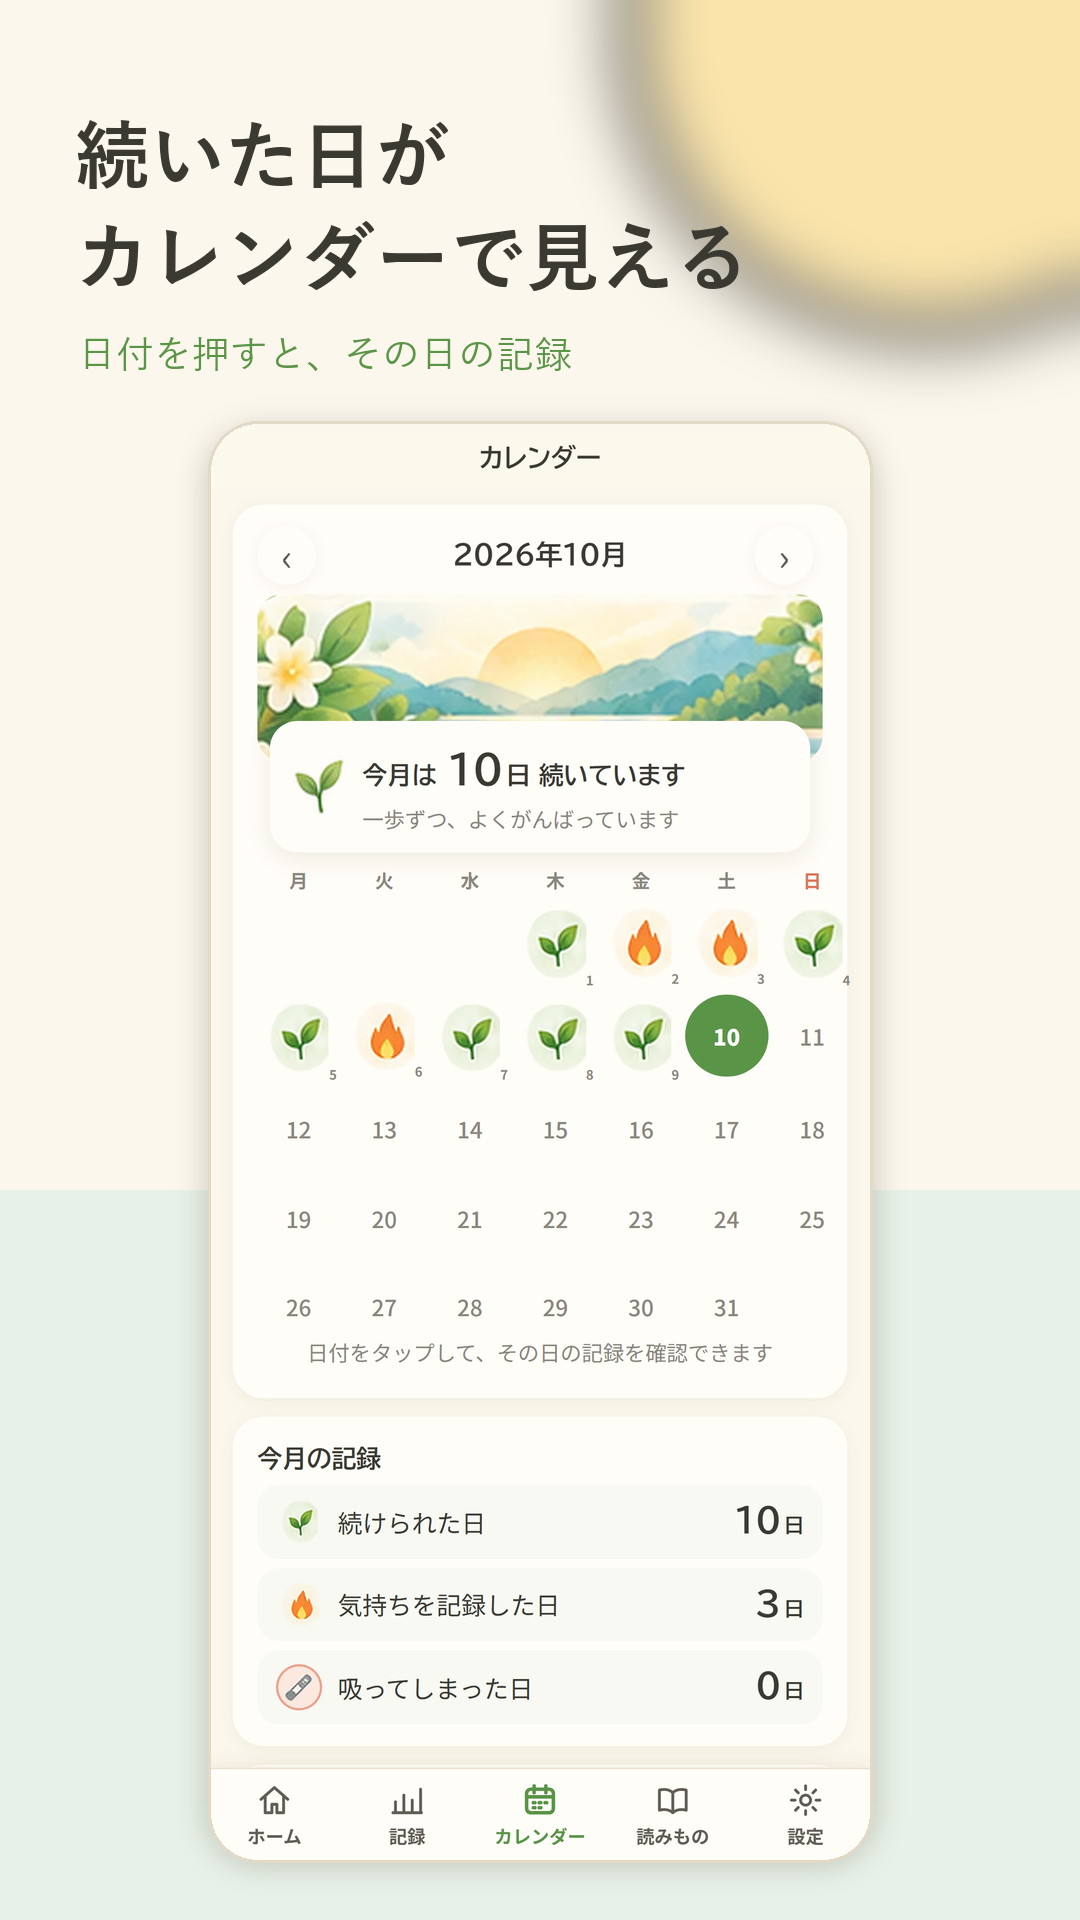
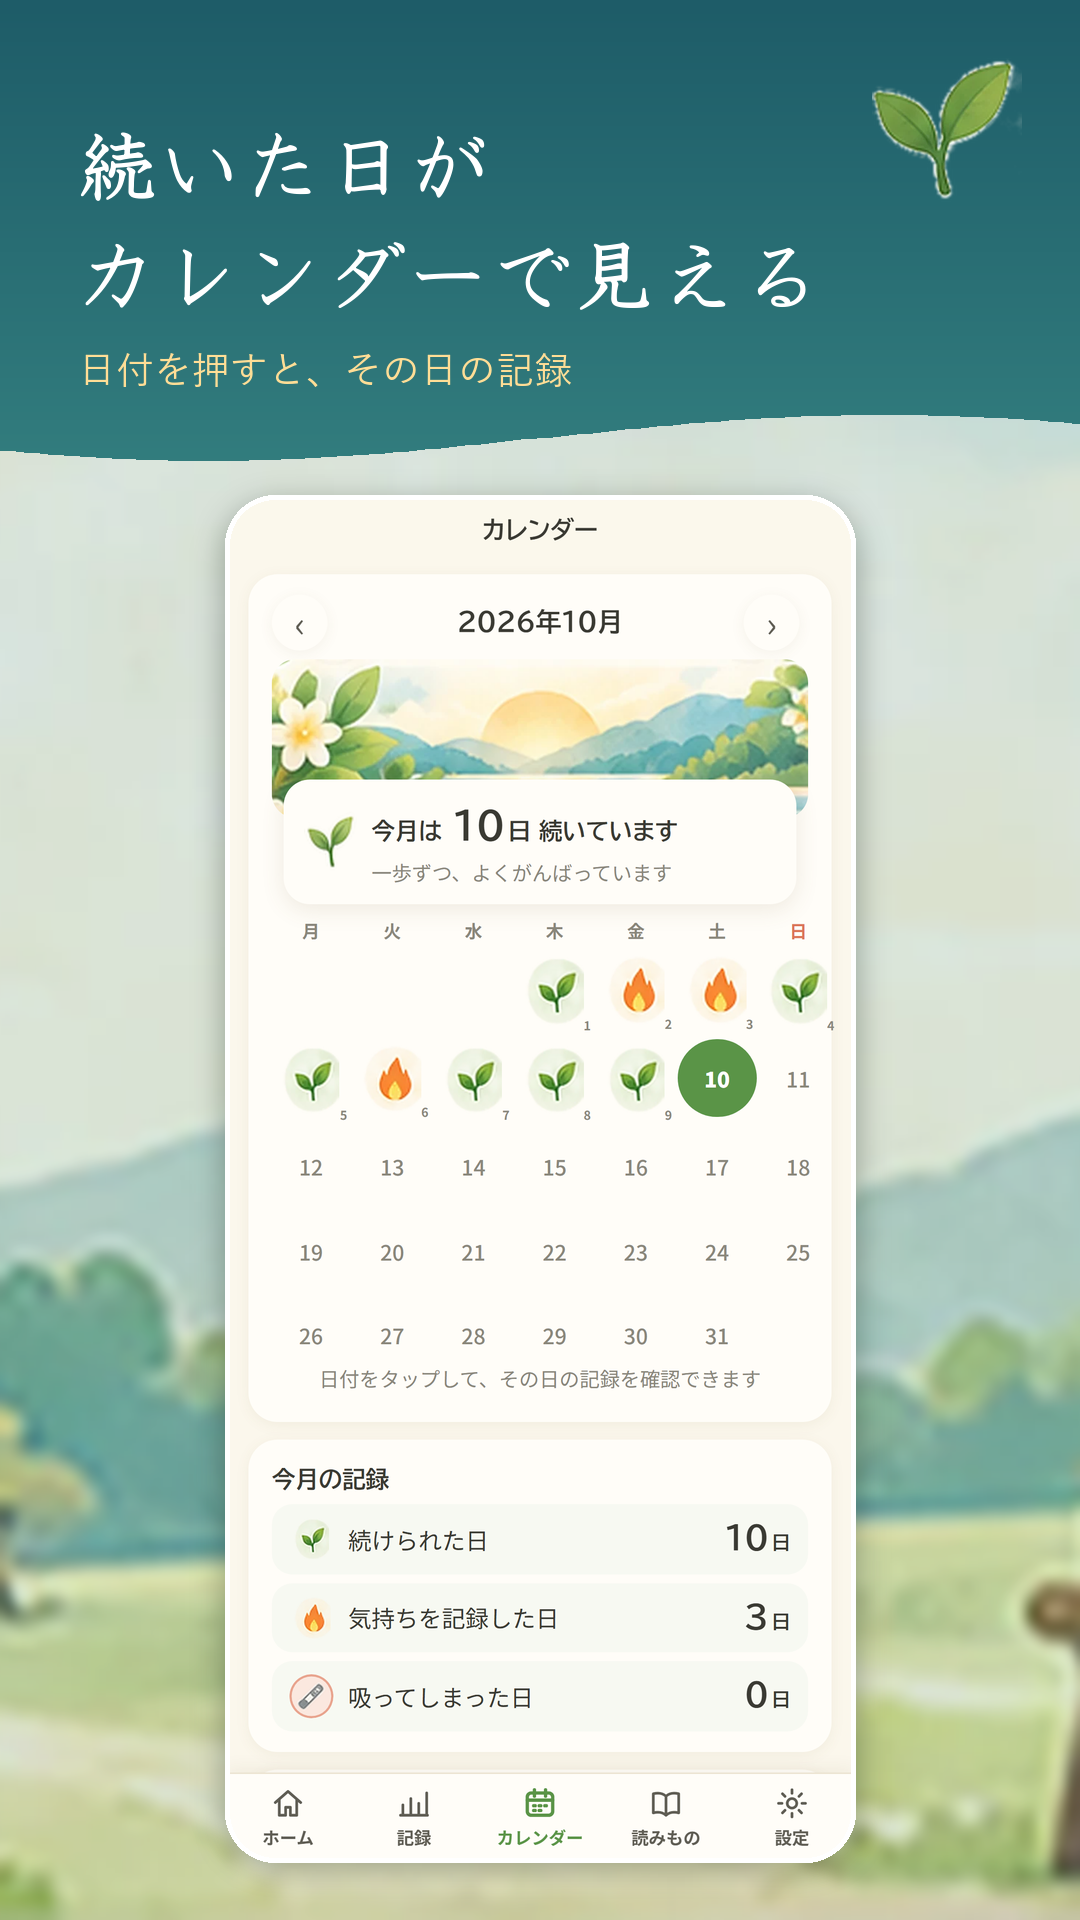
ストア画像と宣伝の地を生成りの無地から変える(若葉色/青緑の帯+朝日の絵・HG教科書体)
持ち主「Claude 特有の背景をなくして」。both は若葉色、tabako は朝の青緑の帯で見分ける。
make_store.py に --flavor を足し、--no-capture で今の raw から組み直した。元の画像は store/_cream_backup_2026-10-10/。

diff --git a/scripts/make_store.py b/scripts/make_store.py
@@ -2,7 +2,10 @@
 1) 見本データで画面を撮る(430x932 ×3 = 1290x2796)
 2) 見出しを付けて iPhone 用 1290x2796 と Play 用 1080x1920 にする(値段・「無料」は写さない)
 3) アイコン 1024 / Play 512(持ち主の絵 store/icon_source_1024.png の縁を除いた物)/ フィーチャー 1024x500
-出力: store/<flavor>/ と store/<flavor>/play/"""
+出力: store/<flavor>/ と store/<flavor>/play/
+撮り直さず組むだけ: python scripts/make_store.py --no-capture [--flavor both|tabako]
+2026-10-10 持ち主「Claude 特有の背景をなくして」: 生成りの無地をやめ、上は濃い若葉色(たばこ版は朝の青緑)の帯に白い HG教科書体(HGRKK)、
+下はアプリの朝日の絵(お酒もたばこも=湖・たばこ=公園)を敷く。元の画像は store/_cream_backup_2026-10-10/"""
 import json
 import os
 import sys
@@ -15,6 +18,10 @@ HERE = os.path.dirname(os.path.abspath(__file__))
 ROOT = os.path.dirname(HERE)
 FL = json.load(open(os.path.join(ROOT, "src", "flavor.current.json"), encoding="utf-8"))
 KEY = FL["key"]
+if "--flavor" in sys.argv:
+    KEY = sys.argv[sys.argv.index("--flavor") + 1]
+if URL.startswith("--"):
+    URL = "http://localhost:5291/"
 STORE = os.path.join(ROOT, "store", KEY)
 RAW = os.path.join(STORE, "raw")
 PLAY = os.path.join(STORE, "play")
@@ -23,8 +30,8 @@ for d in (STORE, RAW, PLAY, os.path.join(STORE, "ios"), os.path.join(PLAY, "scre
     os.makedirs(d, exist_ok=True)
 
 GOTHIC = "C:/Windows/Fonts/YuGothB.ttc"
+POP = "C:/Windows/Fonts/HGRKK.TTC"
 GOTHIC_M = "C:/Windows/Fonts/YuGothM.ttc"
-PAPER = (251, 247, 236)
 SAGE = (232, 241, 231)
 SUN = (250, 228, 170)
 GREEN = (90, 148, 71)
@@ -33,6 +40,11 @@ INK = (58, 58, 51)
 INK2 = (95, 93, 84)
 SMOKE = KEY == "tabako"
 BOTH = KEY == "both"
+# 帯の色と地の絵(both と tabako で見分けがつくように)
+if SMOKE:
+    BAND, BAND2, ACCENT, BG_ART = (30, 92, 104), (52, 128, 128), (255, 222, 150), "hero_park"
+else:
+    BAND, BAND2, ACCENT, BG_ART = (46, 98, 50), (86, 140, 62), (255, 214, 130), "hero_lake"
 
 if BOTH:
     CAPTIONS = [
@@ -128,25 +140,63 @@ def art(name):
     return Image.open(os.path.join(REF, name + ".webp")).convert("RGBA")
 
 
+def cover(im, W, H, ax=0.5, ay=0.5):
+    k = max(W / im.width, H / im.height)
+    im = im.resize((int(im.width * k) + 1, int(im.height * k) + 1), Image.LANCZOS)
+    x, y = int((im.width - W) * ax), int((im.height - H) * ay)
+    return im.crop((x, y, x + W, y + H))
+
+
+def band_layer(W, H, s, top_h):
+    """上の濃い帯(丘のようにゆるく波打つ下端・上から下へ少し明るく)"""
+    lay = Image.new("RGBA", (W, H), (0, 0, 0, 0))
+    grad = Image.new("RGB", (W, top_h + int(80 * s)))
+    gd = ImageDraw.Draw(grad)
+    for y in range(grad.height):
+        k = y / grad.height
+        gd.line([(0, y), (W, y)], fill=tuple(int(BAND[i] + (BAND2[i] - BAND[i]) * k) for i in range(3)))
+    m = Image.new("L", grad.size, 0)
+    md = ImageDraw.Draw(m)
+    pts = [(0, 0), (W, 0)]
+    import math
+    for x in list(range(W, 0, -8)) + [0]:
+        pts.append((x, top_h + int(28 * s * math.sin(x / W * math.pi * 1.6 + 0.6))))
+    md.polygon(pts, fill=255)
+    lay.paste(grad, (0, 0), m)
+    return lay
+
+
 def compose(name, title, sub, W, H, out):
     s = W / 1290
-    bg = Image.new("RGB", (W, H), PAPER)
-    # 右上に朝日、下にやわらかいセージ
-    R = int(360 * s)
-    sun = Image.new("RGBA", (W, H), (0, 0, 0, 0))
-    ImageDraw.Draw(sun).ellipse([W - R * 1.5, -R * 0.9, W + R * 0.5, R * 1.1], fill=SUN + (255,))
-    sun = sun.filter(ImageFilter.GaussianBlur(40 * s))
-    bg.paste(sun, (0, 0), sun)
-    d = ImageDraw.Draw(bg)
-    d.rectangle([0, int(H * 0.62), W, H], fill=SAGE)
-    ft = ImageFont.truetype(GOTHIC, int(90 * s))
     fs = ImageFont.truetype(GOTHIC_M, int(46 * s))
-    y = int(140 * s)
-    for line in title.split("\n"):
-        d.text((int(90 * s), y), line, font=ft, fill=INK)
-        y += int(122 * s)
-    d.text((int(94 * s), y + int(16 * s)), sub, font=fs, fill=GREEN)
-    top = y + int(120 * s)
+    lines = title.split(chr(10))
+    # 右上の若葉にかからない幅に収める
+    size = int(100 * s)
+    while True:
+        ft = ImageFont.truetype(POP, size)
+        if max(ft.getlength(t) for t in lines) <= W - int(90 * s) - int(270 * s) or size < int(70 * s):
+            break
+        size -= 2
+    y0 = int(150 * s)
+    lh = int(132 * s)
+    top_h = y0 + lh * len(lines) + int(110 * s)
+    # 地: アプリの朝日の絵を全面に(ぼかし)、上に濃い帯
+    bg = cover(art(BG_ART).convert("RGB"), W, H, 0.5, 0.75).filter(ImageFilter.GaussianBlur(5 * s))
+    bg = bg.convert("RGBA")
+    bg.alpha_composite(Image.new("RGBA", (W, H), BAND2 + (46,)))  # 絵を帯の色に少し寄せる(白っぽい空を残さない)
+    bg.alpha_composite(band_layer(W, H, s, top_h))
+    # 帯の右上に若葉
+    sp = art("logo_sprout")
+    sw0 = int(180 * s)
+    sp = sp.resize((sw0, int(sp.height * sw0 / sp.width)), Image.LANCZOS)
+    bg.alpha_composite(sp, (W - sw0 - int(70 * s), int(70 * s)))
+    d = ImageDraw.Draw(bg)
+    y = y0
+    for line in lines:
+        d.text((int(90 * s), y), line, font=ft, fill=(255, 255, 255), stroke_width=max(1, int(2 * s)), stroke_fill=(255, 255, 255))
+        y += lh
+    d.text((int(94 * s), y + int(6 * s)), sub, font=fs, fill=ACCENT)
+    top = top_h + int(70 * s)
     shot = Image.open(os.path.join(RAW, name + ".png")).convert("RGB")
     avail_h = H - top - int(70 * s)
     sw = int(W * 0.80)
@@ -157,13 +207,14 @@ def compose(name, title, sub, W, H, out):
     shot = shot.resize((sw, sh), Image.LANCZOS)
     x = (W - sw) // 2
     shadow = Image.new("RGBA", (sw + 80, sh + 80), (0, 0, 0, 0))
-    ImageDraw.Draw(shadow).rounded_rectangle([40, 50, sw + 40, sh + 40], int(60 * s), fill=(90, 70, 30, 60))
+    ImageDraw.Draw(shadow).rounded_rectangle([40, 50, sw + 40, sh + 40], int(60 * s), fill=(20, 50, 30, 90))
     shadow = shadow.filter(ImageFilter.GaussianBlur(18 * s))
-    bg.paste(shadow, (x - 40, top - 40), shadow)
+    bg.alpha_composite(shadow, (x - 40, top - 40))
     frame = rounded(shot, int(60 * s))
-    bg.paste(frame, (x, top), frame)
-    d.rounded_rectangle([x, top, x + sw, top + sh], int(60 * s), outline=(226, 218, 198), width=max(2, int(4 * s)))
-    bg.save(out)
+    bg.alpha_composite(frame, (x, top))
+    d = ImageDraw.Draw(bg)
+    d.rounded_rectangle([x, top, x + sw, top + sh], int(60 * s), outline=(255, 255, 255), width=max(3, int(6 * s)))
+    bg.convert("RGB").save(out)
 
 
 def icon(size=1024):
@@ -173,26 +224,28 @@ def icon(size=1024):
 
 def feature():
     W, H = 1024, 500
-    im = Image.new("RGB", (W, H), PAPER)
     land = art("hero_park" if SMOKE else "hero_lake").convert("RGB")
-    k = max(W * 0.62 / land.width, H / land.height)
-    land = land.resize((int(land.width * k), int(land.height * k)), Image.LANCZOS)
-    im.paste(land, (W - land.width + 30, (H - land.height) // 2))
-    # 左を生成りでぼかしてつなぐ
+    im = cover(land, W, H, 0.5, 0.5)
+    # 左を帯の色でぼかしてつなぐ(文字は白)
     fade = Image.new("L", (W, H), 0)
     fd = ImageDraw.Draw(fade)
     for x in range(W):
-        a = 255 if x < 400 else max(0, int(255 * (1 - (x - 400) / 220)))
+        a = 245 if x < 540 else max(0, int(245 * (1 - (x - 540) / 220)))
         fd.line([(x, 0), (x, H)], fill=a)
-    im.paste(Image.new("RGB", (W, H), PAPER), (0, 0), fade)
+    col = Image.new("RGB", (W, H))
+    cd = ImageDraw.Draw(col)
+    for y in range(H):
+        k = y / H
+        cd.line([(0, y), (W, y)], fill=tuple(int(BAND[i] + (BAND2[i] - BAND[i]) * k) for i in range(3)))
+    im.paste(col, (0, 0), fade)
     d = ImageDraw.Draw(im)
     ic = rounded(icon(150), 34)
     im.paste(ic, (64, 70), ic)
-    d.text((236, 92), "やめ日和", font=ImageFont.truetype(GOTHIC, 86), fill=INK)
-    d.text((70, 250), "やめる。続ける。きっと、いい日がくる。", font=ImageFont.truetype(GOTHIC, 34), fill=GREEN)
-    d.text((70, 314), "たばこをやめた日を、数えていく。" if SMOKE else "お酒もたばこも、やめた日を数える。", font=ImageFont.truetype(GOTHIC_M, 30), fill=INK2)
-    d.text((70, 366), "責めない記録・5分タイマー・出典つきの体の目安", font=ImageFont.truetype(GOTHIC_M, 26), fill=INK2)
-    d.text((70, 414), "広告なし・登録なし", font=ImageFont.truetype(GOTHIC_M, 26), fill=CORAL)
+    d.text((236, 92), "やめ日和", font=ImageFont.truetype(POP, 92), fill=(255, 255, 255), stroke_width=2, stroke_fill=(255, 255, 255))
+    d.text((70, 250), "やめる。続ける。きっと、いい日がくる。", font=ImageFont.truetype(GOTHIC, 30), fill=ACCENT)
+    d.text((70, 314), "たばこをやめた日を、数えていく。" if SMOKE else "お酒もたばこも、やめた日を数える。", font=ImageFont.truetype(GOTHIC_M, 30), fill=(255, 255, 255))
+    d.text((70, 366), "責めない記録・5分タイマー・出典つきの体の目安", font=ImageFont.truetype(GOTHIC_M, 26), fill=(232, 240, 228))
+    d.text((70, 414), "広告なし・登録なし", font=ImageFont.truetype(GOTHIC_M, 26), fill=ACCENT)
     return im
 
 

diff --git a/store/promo/tt_zunda_intro/_work/make.py b/store/promo/tt_zunda_intro/_work/make.py
@@ -1,0 +1,58 @@
+"""やめ日和(お酒とたばこの両方の版 both)ずんだもんのアプリ紹介 縦動画(1080x1920)。共通部品 Downloads/ui_remake_common/zunda_promo.py
+画面は dist-promo(開発モードの確認用ビルド。dist には触れない)を vite preview して見本データで録画した clips/(record.py)
+言葉づかい: 責めない。医療の助言はしない(やめ方の指南・効果の約束をしない)。
+python record.py → python make.py → ../yamebiyori_zunda_intro.mp4 / ../thumb.png
+"""
+import sys
+from pathlib import Path
+
+sys.path.insert(0, r'C:\Users\yuichi1\Downloads\ui_remake_common')
+import zunda_promo as Z  # noqa: E402
+
+HERE = Path(__file__).resolve().parent
+OUT = HERE.parent
+STORE = HERE.parents[2]
+
+Z.setup(name='やめ日和', tagline='お酒とたばこをやめる記録', icon=STORE / 'both' / 'icon_1024.png', renewed=True,
+        brand=(0x4E, 0x86, 0x3C), bg=(0x2E, 0x62, 0x32), bg2=(0x56, 0x8C, 0x3E), ink=(0x3A, 0x3A, 0x33),
+        key='yame3', clips=HERE / 'clips',
+        # 2026-10-10 生成りの地をやめ、アプリの朝日の湖の絵を若葉色に沈めて敷く。名前は HG教科書体
+        bg_img=STORE.parent / 'src' / 'assets' / 'ref' / 'hero_lake.webp', bg_blur=10, bg_tint=(0x2A, 0x5C, 0x2E, 185),
+        head_ink=(255, 255, 255), name_font='C:/Windows/Fonts/HGRKK.TTC')
+
+HOME = Z.clip_at('home', 0)
+SLIP = Z.clip_at('slip', 0)
+CAL = Z.clip_at('calendar', 0)
+TOP = Z.box9(540, 760, 1000)
+
+
+def scenes():
+    return [
+        Z.Seg('お酒やたばこを控えたいのに、つい手が伸びる日って、あるのだ。', 'おさけやたばこを控えたいのに、つい手が伸びる日って、あるのだ。',
+              sub='お酒やたばこを控えたいのに|つい手が伸びる日って|あるのだ', img=HOME, crop0=Z.FULLBOX, crop1=TOP, zt=(0.3, 2.4),
+              pose=13, sfx=[(0.0, 'scout-impact.wav', 0.2)]),
+        Z.Seg('そこで、やめ日和なのだ。UIと見た目を大幅に変えて、新しくなったのだ。',
+              'そこで、やめびよりなのだ。ユーアイと見た目を大幅に変えて、新しくなったのだ。',
+              sub='そこで、やめ日和なのだ。|UIと見た目を大幅に変えて|新しくなったのだ', img=HOME, crop0=TOP, crop1=Z.box9(540, 640, 900),
+              zt=(0.2, 1.8), pose=3, hl=['やめ日和', '新しくなった'], sfx=[(0.0, 'card-place.wav', 0.35)]),
+        Z.Seg('お酒もたばこも、ひとつのアプリで、やめた日数と浮いたお金を数えられるのだ。',
+              'おさけもたばこも、ひとつのアプリで、やめた日数と浮いたお金を数えられるのだ。',
+              sub='お酒もたばこも|ひとつのアプリで|日数と浮いたお金を記録', clip='pair', c0=0.4, c1=2.35,
+              crop0=Z.box9(540, 760, 1040), pose=20, hl=['お酒もたばこも']),
+        Z.Seg('飲みたい、吸いたい気持ちが来たら、記録して5分タイマーなのだ。',
+              'のみたい、すいたい気持ちが来たら、記録してごふんタイマーなのだ。',
+              sub='飲みたい・吸いたい|気持ちが来たら|記録して5分タイマー', clip='crave', c0=0.4, c1=5.2,
+              crop0=Z.box9(540, 760, 1040), pose=30, hl=['5分タイマー'], min_dur=3.4),
+        Z.Seg('飲んでしまった日も、責めないのだ。通算の日数は消えないのだ。', 'のんでしまった日も、責めないのだ。通算の日数は消えないのだ。',
+              sub='飲んでしまった日も|責めない|通算の日数は消えない', img=SLIP, crop0=Z.box9(540, 900, 1080), crop1=Z.box9(540, 820, 960),
+              zt=(0.1, 1.6), pose=2, hl=['責めない']),
+        Z.End('やめ日和は、いまアンドロイドのテスト版。テスター募集中なのだ。プロフィールのリンクから参加してほしいのだ!',
+              'やめびよりは、いまアンドロイドのテスト版。テスター募集中なのだ。プロフィールのリンクから参加してほしいのだ!', pose=29),
+    ]
+
+
+if __name__ == '__main__':
+    mp4 = OUT / 'yamebiyori_zunda_intro.mp4'
+    Z.build(scenes(), mp4, HERE / 'timeline.json')
+    Z.thumb(OUT / 'thumb.png', HOME, 'お酒もたばこも', 'やめた日を数える', crop=Z.box9(540, 760, 1080), y=1060)
+    Z.check(mp4, HERE / 'check', [0.1, 1.5, 3.5, 5.0, 7.5, 9.5, 11.5, 13.5, 15.5, 17.5, 19.5, 21.5, 23.0, 26.0])
